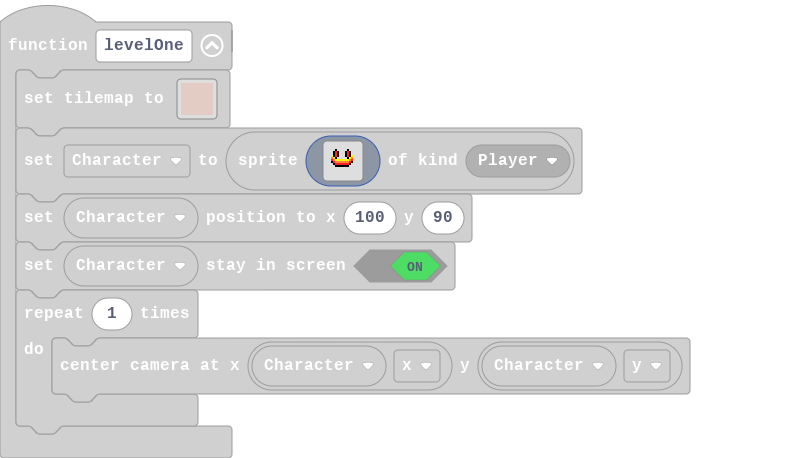
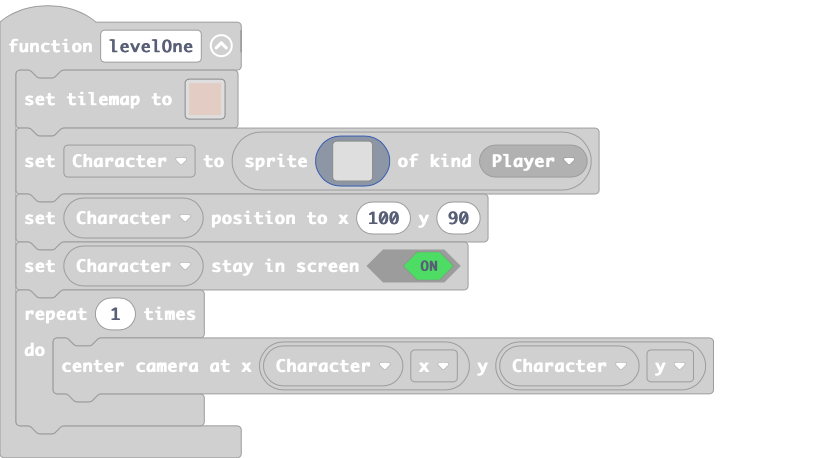
Update main.blocks, main.ts, images.g.jres, images.g.ts

diff --git a/images.g.ts b/images.g.ts
@@ -41,6 +41,25 @@ namespace myImages {
 . . . . . . . . . . . . . . . . 
 . . . . . . . . . . . . . . . . 
 `;
+            case "image3":
+            case "myImage1":return img`
+. . . . . . . . . . . . . . . . 
+. . . . . . . . . . . . . . . . 
+. . . . . . . . . . . . . . . . 
+. . . . . . . . . . . . . . . . 
+. . . . . . . . . . . . . . . . 
+. . . . . . . . . . . . . . . . 
+. . . . . . . . . . . . . . . . 
+. . . . . . . . . . . . . . . . 
+. . . . . . . . . . . . . . . . 
+. . . . . . . . . . . . . . . . 
+. . . . . . . . . . . . . . . . 
+. . . . . . . . . . . . . . . . 
+. . . . . . . . . . . . . . . . 
+. . . . . . . . . . . . . . . . 
+. . . . . . . . . . . . . . . . 
+. . . . . . . . . . . . . . . . 
+`;
         }
         return null;
     })

diff --git a/main.ts b/main.ts
@@ -146,9 +146,9 @@ function levelOne () {
         . . 4 5 f . . . . . f 5 4 . . . 
         . . 2 4 5 5 5 5 5 5 5 4 2 . . . 
         . . f 2 4 4 4 4 4 4 4 2 f . . . 
-        . . . f 2 2 2 2 2 2 2 f . . . . 
-        . . . . f f f f f f f . . . . . 
-        . . . . . . . . . . . . . . . . 
+        . . 8 f 2 2 2 2 2 2 2 f 8 . . . 
+        . . . 8 f f f f f f f 8 . . . . 
+        . . . . 8 8 8 8 8 8 8 . . . . . 
         . . . . . . . . . . . . . . . . 
         . . . . . . . . . . . . . . . . 
         . . . . . . . . . . . . . . . . 
